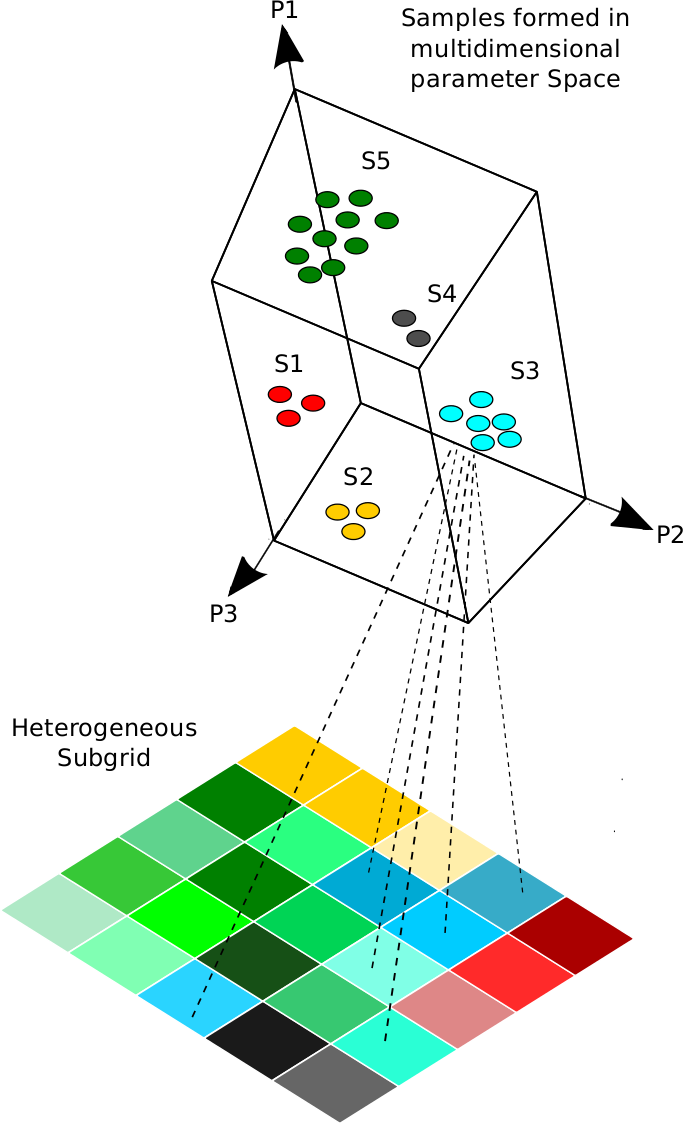
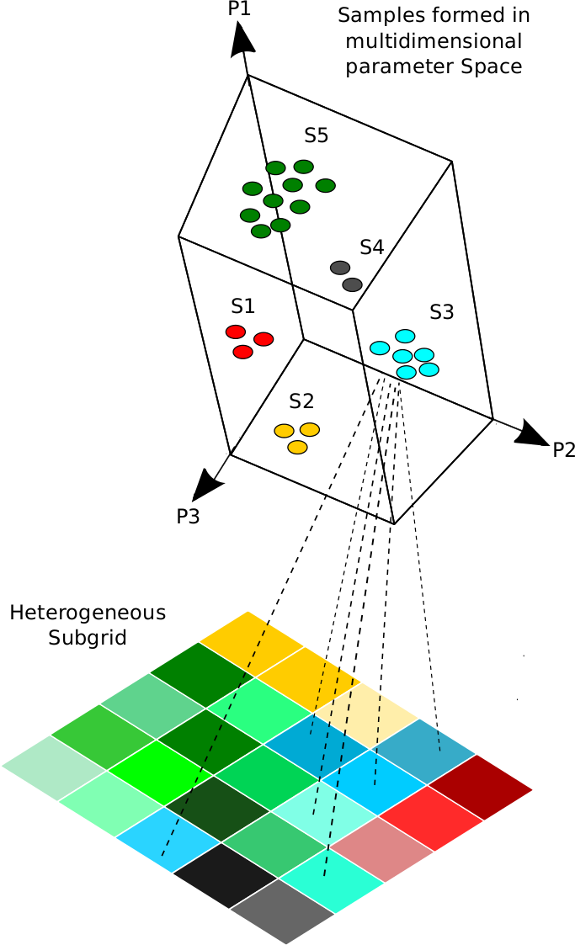
updates

diff --git a/tools/index.md b/tools/index.md
@@ -26,7 +26,7 @@ R package for landscape clustering and land-surface modelling
 TopoSUB is a R project for sampling the most important aspects of land surface heterogeneity through a lumped scheme, allowing for the application of numerical land surface models (LSMs), like e.g. GEOtop, over large areas in mountain regions or other heterogeneous environments (Fiddes et al. 2012). The project was initiated by Joel Fiddes, the source code is available via the toposub GitHub sitory.
 
 
-<figure style="width: 600px">
+<figure>
   <img src="{{ site.url }}{{ site.baseurl }}/images/toposub_samples.png" alt="">
   <figcaption>A simplified example of multidimensional sampling used by TopoSUB. The heterogeneous subgrid is grouped into samples S1-5 according to three dimensions P1-3 which define the parameter space (3-D cube). Colour represents sample membership, shade of colour symbolises within sample variation with respect to P1-3. This method generalises to higher sample numbers, more highly resolved subgrids and higher orders of dimensionality.</figcaption>
 </figure> 

diff --git a/posts/index.md b/posts/index.md
@@ -4,5 +4,5 @@ title: Projects
 excerpt: "A List of Posts"
 image:
   feature: sample-image-2.png
-  credit: jfiddes
+  credit: WeGraphics
 ---
